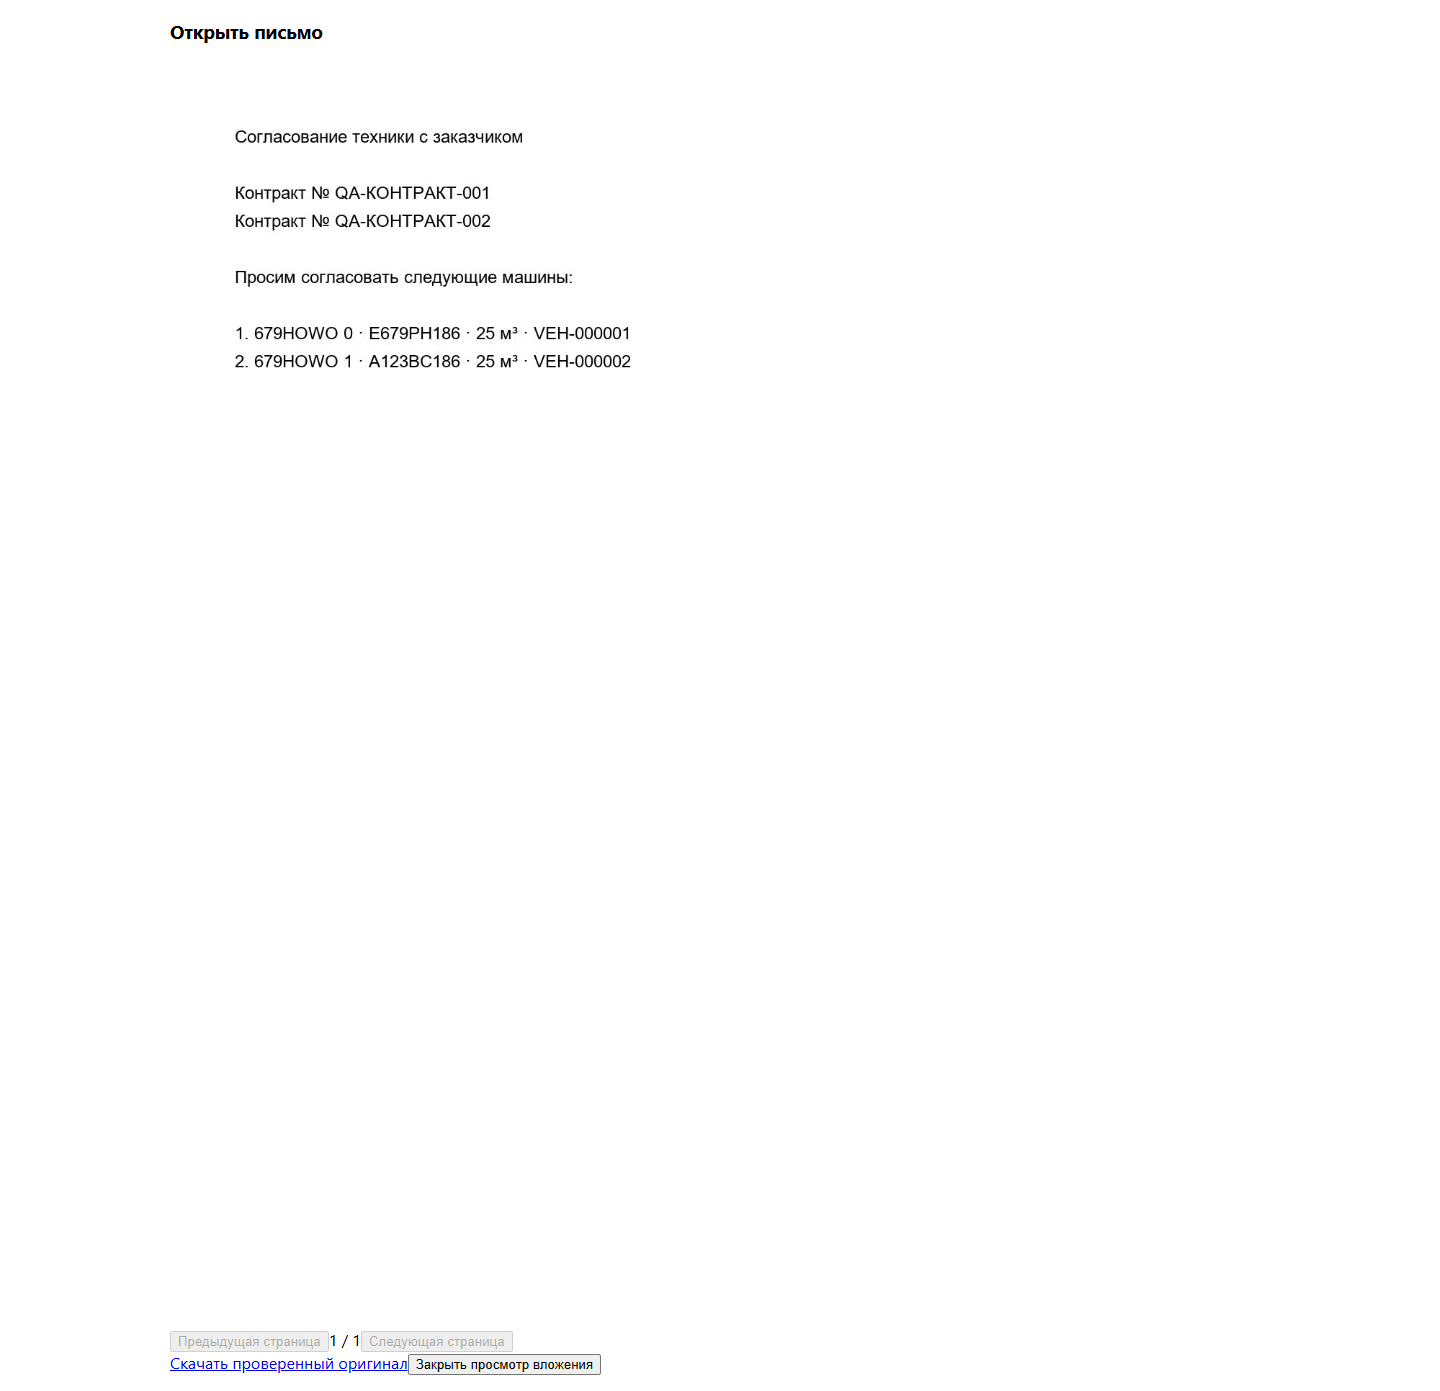
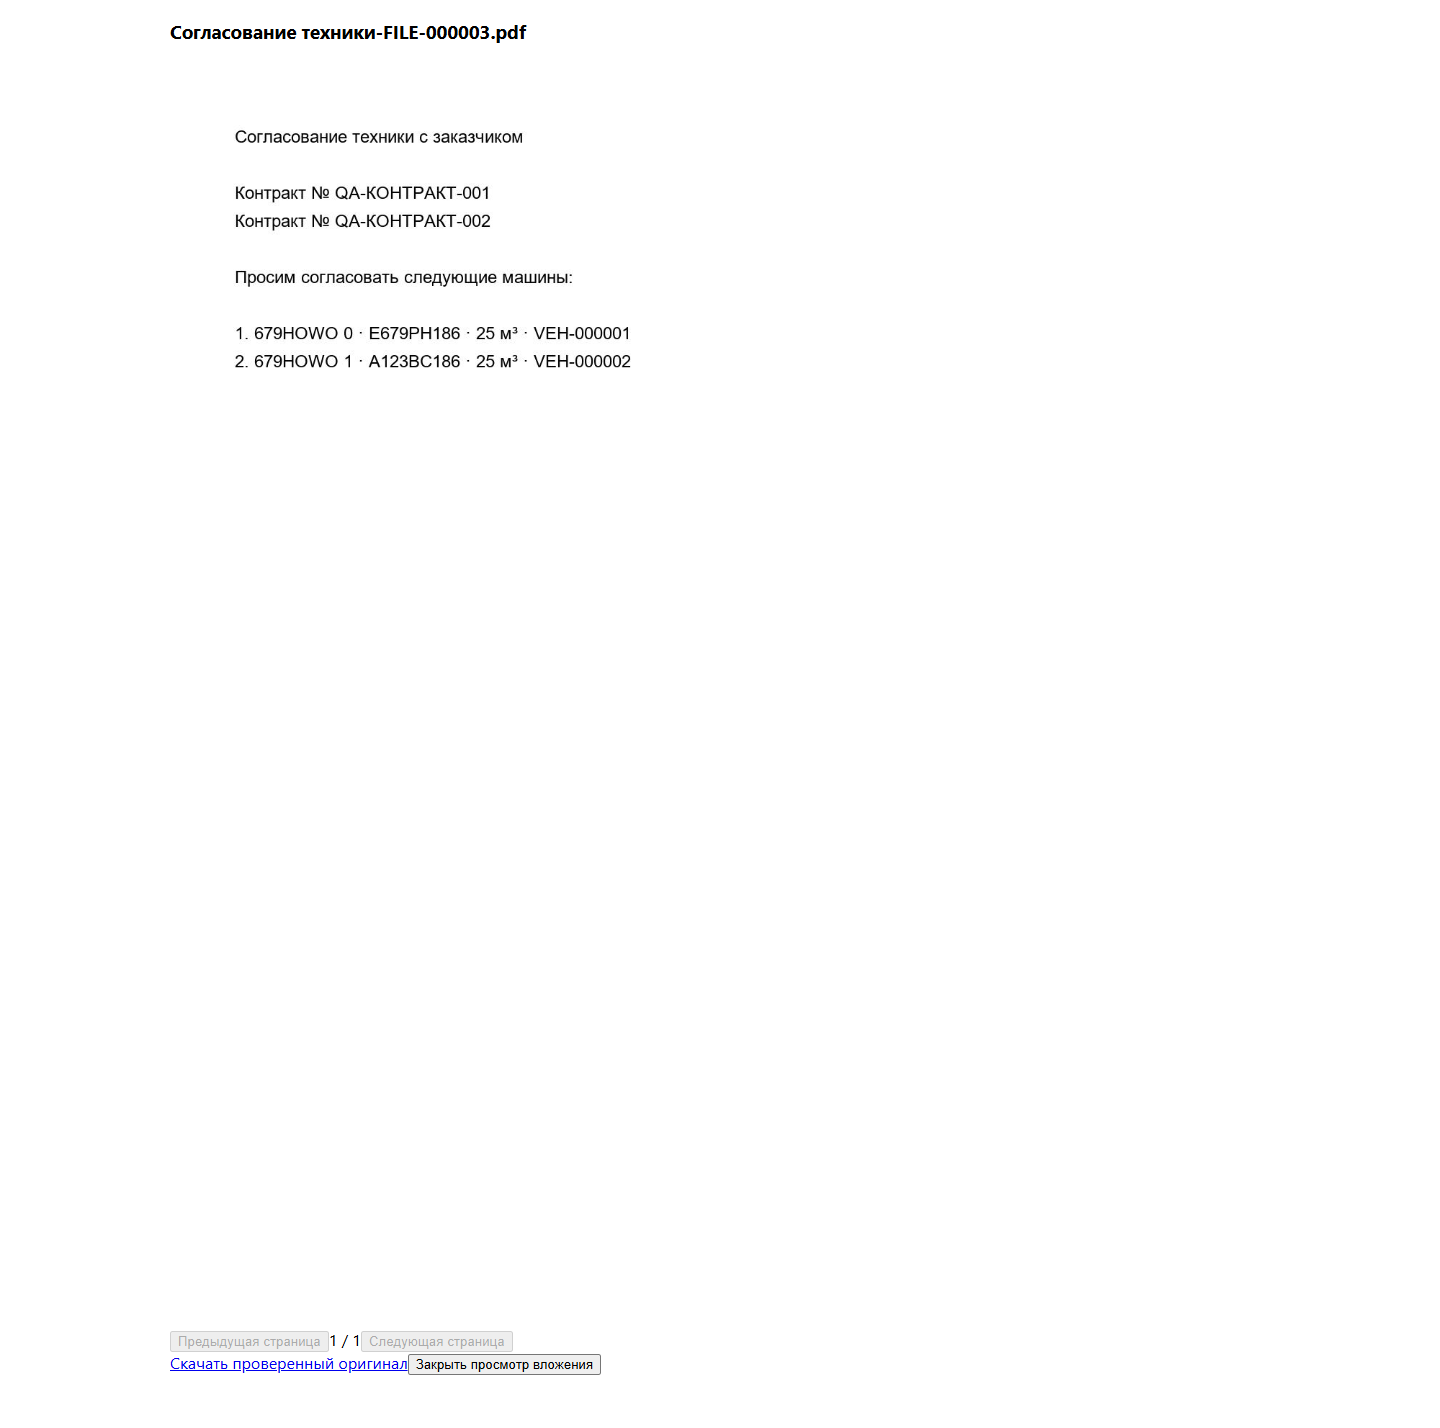
fix(arm2): use platform FILE names for approval previews

Changed region(s): [[0.1562, 0.0927, 0.4375, 0.2782], [0.125, 0.9274, 0.4062, 0.9892], [0.125, 0.0, 0.375, 0.0309]]

diff --git a/frontend/src/arm2/Approvals.test.tsx b/frontend/src/arm2/Approvals.test.tsx
@@ -19,7 +19,7 @@ const ready = {vehicle_id: 'VEH-000001', name: '679HOWO', plate_number: 'Е679Р
   work_readiness_notice: 'Полный допуск к работе не подтверждён'};
 const request = {id: 'APPROVAL-000001', version: 1, contract_number_1: 'К-1', contract_number_2: 'К-2',
   author_id: 1, created_at: '2026-11-22T08:00:00Z', letter_file_id: 'FILE-000002', package_file_id: 'FILE-000003',
-  response_file_ids: [], decisions: [
+  response_file_ids: [], files: [{id: 'FILE-000002', stored_name: 'Письмо-FILE-000002.pdf'}, {id: 'FILE-000003', stored_name: 'Комплект-FILE-000003.zip'}, {id: 'FILE-000004', stored_name: 'Ответ-FILE-000004.png'}], decisions: [
     {id: 'APPROVAL-ITEM-000001', vehicle_id: 'VEH-000001', plate_number: 'Е679РН186', volume_m3: 25, state: 'PENDING', version: 1},
     {id: 'APPROVAL-ITEM-000002', vehicle_id: 'VEH-000002', plate_number: 'А001АА186', volume_m3: 27, state: 'PENDING', version: 1}]};
 beforeEach(() => {
@@ -59,8 +59,10 @@ it('takes eligibility only from the server and sends one letter with two header 
 
 it('saves explicit per-machine decisions with one bounded original and reopens through the platform viewer', async () => {
   let saved = false;
+  const candidate = {navigate: vi.fn(), close: vi.fn()};
+  vi.mocked(openFilePreview).mockReturnValue(candidate);
   vi.mocked(api).mockImplementation(async (path, method) => {
-    if (method === 'PUT') return {stage_id: 'stage'};
+    if (method === 'PUT') return {stage_id: 'stage', stored_name: 'Ответ-FILE-000004.png'};
     if (method === 'POST') {saved = true; return {request_id: request.id};}
     return {...request, version: saved ? 2 : 1, response_file_ids: saved ? ['FILE-000004'] : [],
       decisions: request.decisions.map((row, i) => ({...row, state: saved ? ['APPROVED', 'REJECTED'][i] : 'PENDING'}))};
@@ -69,6 +71,8 @@ it('saves explicit per-machine decisions with one bounded original and reopens t
   const choices = host.querySelectorAll('select'); await change(choices[0], 'APPROVED'); await change(choices[1], 'REJECTED');
   const file = new File(['%PDF-test'], 'Ответ.pdf', {type: 'application/pdf'});
   await act(async () => {const input = host.querySelector<HTMLInputElement>('input[type=file]')!; Object.defineProperty(input, 'files', {value: [file]}); input.dispatchEvent(new Event('change', {bubbles: true})); await tick();});
+  await click('Проверить оригинал ответа');
+  expect(candidate.navigate).toHaveBeenCalledWith(expect.stringMatching(/\/response-stages\/[^/]+\/preview$/), 'Ответ-FILE-000004.png');
   await click('Сохранить ответ и решения');
   const sent = vi.mocked(api).mock.calls.find(call => call[0].endsWith('/response') && call[1] === 'POST')!;
   expect(sent[2]).toMatchObject({expected_version: 1, decisions: [
@@ -76,7 +80,7 @@ it('saves explicit per-machine decisions with one bounded original and reopens t
     {vehicle_id: 'VEH-000002', expected_version: 1, state: 'REJECTED'}]});
   expect(host.textContent).toContain('Согласовано'); expect(host.textContent).toContain('Отклонено');
   await click('Открыть ответ заказчика');
-  expect(openFilePreview).toHaveBeenCalledWith('/arm2/approvals/APPROVAL-000001/files/FILE-000004/preview', 'Открыть ответ заказчика');
+  expect(openFilePreview).toHaveBeenCalledWith('/arm2/approvals/APPROVAL-000001/files/FILE-000004/preview', 'Ответ-FILE-000004.png');
   expect(host.querySelector('iframe')).toBeNull();
 });
 
@@ -85,13 +89,13 @@ it('shows volume as read-only and confirms only after the operator checks an exp
     parent_type: 'VEH' as const, parent_id: ready.vehicle_id, description: null, archive_state: 'Неархивный' as const, display_state: 'Доступен' as const};
   vi.mocked(api).mockImplementation(async (path, method) => {
     if (method === 'POST') return {no_op: false};
-    if (path.includes('/files?')) return {current_revision_id: ready.revision_id, document_version: 2, revisions: [{id: ready.revision_id, files: [{id: 'FILE-000001', original_upload_name: 'Справка.pdf'}]}]};
+    if (path.includes('/files?')) return {current_revision_id: ready.revision_id, document_version: 2, revisions: [{id: ready.revision_id, files: [{id: 'FILE-000001', original_upload_name: 'Справка.pdf', stored_name: 'Тарировка-FILE-000001.pdf'}]}]};
     return ready;
   });
   await mount(<><CalibrationSummary vehicleId={ready.vehicle_id}/><CalibrationConfirmation vehicleId={ready.vehicle_id} document={document} editable blocked={false}/></>);
   expect(host.textContent).toContain('25 м³'); expect(host.textContent).toContain('Полный допуск');
   await click('Открыть Справка.pdf');
-  expect(openFilePreview).toHaveBeenCalledOnce();
+  expect(openFilePreview).toHaveBeenCalledWith('/arm2/veh/VEH-000001/documents/DOCUMENT-000001/revisions/DOCUMENT-REV-000001/files/FILE-000001/preview', 'Тарировка-FILE-000001.pdf');
   const button = [...host.querySelectorAll('button')].find(b => b.textContent === 'Подтвердить тарировку')!;
   expect(button.disabled).toBe(true);
   await change(host.querySelector<HTMLInputElement>('input[type=number]')!, '27');

diff --git a/frontend/src/arm2/Approvals.tsx b/frontend/src/arm2/Approvals.tsx
@@ -2,13 +2,14 @@ import {useEffect, useRef, useState} from 'react';
 import {Link, useNavigate, useParams} from 'react-router-dom';
 import {api, ApiError} from '../api';
 import {apiUrl} from '../workspace';
+import type {DocumentFile} from './api';
 import type {CalibrationState} from './Calibration';
 import {openFilePreview} from './filePreviewWindow';
 import {ErrorMessage, History, Pagination, useAlive, useLoad} from './shared';
 import {useDraftCache, useDraftGuard} from './useDraftGuard';
 
 interface Decision {id: string; vehicle_id: string; plate_number: string; volume_m3: number; state: string; version: number; response_file_id: string | null; decided_at: string | null; decided_by: number | null}
-interface Approval {id: string; version: number; contract_number_1: string; contract_number_2: string; created_at: string; author_id: number; letter_file_id: string; package_file_id: string; response_file_ids: string[]; decisions: Decision[]}
+interface Approval {id: string; version: number; contract_number_1: string; contract_number_2: string; created_at: string; author_id: number; letter_file_id: string; package_file_id: string; response_file_ids: string[]; files: DocumentFile[]; decisions: Decision[]}
 const endpoint = '/arm2/approvals';
 const stateName = (value: string) => ({PENDING: 'Ожидает ответа', APPROVED: 'Согласовано', REJECTED: 'Отклонено'}[value] ?? value);
 export default function Approvals({editable}: {editable: boolean}) {
@@ -71,8 +72,8 @@ function ApprovalCard({row, editable, reload}: {row: Approval; editable: boolean
     let preview: ReturnType<typeof openFilePreview> | undefined;
     try {
       preview = openFilePreview();
-      await api(path + '/response-stages/' + draft.stageId + '?name=' + encodeURIComponent(draft.file.name), 'PUT', draft.file);
-      preview.navigate(path + '/response-stages/' + draft.stageId + '/preview', draft.file.name);
+      const staged = await api<{stored_name: string}>(path + '/response-stages/' + draft.stageId + '?name=' + encodeURIComponent(draft.file.name), 'PUT', draft.file);
+      preview.navigate(path + '/response-stages/' + draft.stageId + '/preview', staged.stored_name);
     } catch (error) {preview?.close(); if (alive.current) setError(error);}
     finally {inFlight.current = false; if (alive.current) setBusy(false);}
   };
@@ -88,7 +89,7 @@ function ApprovalCard({row, editable, reload}: {row: Approval; editable: boolean
     } catch (error) {if (alive.current) setError(error);}
     finally {inFlight.current = false; if (alive.current) setBusy(false);}
   };
-  const file = (id: string, label: string, preview = true) => <span className="arm2-actions" key={id}>{preview && <button type="button" onClick={() => openFilePreview(`${path}/files/${id}/preview`, label)}>{label}</button>}<a href={apiUrl(`${path}/files/${id}/download`)} download>{preview ? 'Скачать оригинал' : label}</a></span>;
+  const file = (id: string, label: string, preview = true) => <span className="arm2-actions" key={id}>{preview && <button type="button" onClick={() => openFilePreview(`${path}/files/${id}/preview`, row.files.find(file => file.id === id)!.stored_name)}>{label}</button>}<a href={apiUrl(`${path}/files/${id}/download`)} download>{preview ? 'Скачать оригинал' : label}</a></span>;
   return <section><h2>{row.id}</h2><p>Контракты: {row.contract_number_1} / {row.contract_number_2} · Автор {row.author_id} · {new Date(row.created_at).toLocaleString('ru-RU')} · Версия {row.version}</p>
     <div className="arm2-actions">{file(row.letter_file_id, 'Открыть письмо')}{file(row.package_file_id, 'Скачать ZIP со справками', false)}</div>
     <ErrorMessage error={error}/><fieldset disabled={!editable || busy}><table><thead><tr><th>Машина / госномер</th><th>Объём</th><th>Текущее решение</th><th>Принять из ответа</th></tr></thead><tbody>{row.decisions.map(d => <tr key={d.id}><td><Link to={'/arm2/veh/' + d.vehicle_id}>{d.vehicle_id} · {d.plate_number}</Link></td><td>{d.volume_m3} м³</td><td>{stateName(d.state)}{d.decided_at && <small> · {new Date(d.decided_at).toLocaleString('ru-RU')} · Автор {d.decided_by}</small>}</td><td><select aria-label={'Решение ' + d.plate_number} value={draft.choices[d.vehicle_id] ?? ''} onChange={e => {const choices = {...draft.choices}; if (e.target.value) choices[d.vehicle_id] = e.target.value; else delete choices[d.vehicle_id]; setDraft({...draft, choices, key: crypto.randomUUID()});}}><option value="">Не изменять</option><option value="APPROVED">Согласовано</option><option value="REJECTED">Отклонено</option></select></td></tr>)}</tbody></table>

diff --git a/frontend/src/arm2/Calibration.tsx b/frontend/src/arm2/Calibration.tsx
@@ -53,7 +53,7 @@ export function CalibrationConfirmation({vehicleId, document, editable, blocked}
   };
   return <section aria-label="Подтверждение объёма"><h3>Подтвердить объём по оригиналу</h3><ErrorMessage error={state.error} retry={state.reload}/><ErrorMessage error={error}/>
     <p>Проверьте оригинал, госномер и объём. Новая редакция сама по себе не подтверждает объём и не меняет решение заказчика.</p>
-    <div className="arm2-actions">{current?.files.map(file => <button type="button" key={file.id} onClick={() => openFilePreview(`${path}/revisions/${current.id}/files/${file.id}/preview`, file.original_upload_name)}>Открыть {file.original_upload_name}</button>)}</div>
+    <div className="arm2-actions">{current?.files.map(file => <button type="button" key={file.id} onClick={() => openFilePreview(`${path}/revisions/${current.id}/files/${file.id}/preview`, file.stored_name)}>Открыть {file.original_upload_name}</button>)}</div>
     {state.data && <p>Госномер: {state.data.ready.plate_number} · Подтверждённый объём: {state.data.ready.volume_m3 ?? '—'} м³</p>}
     <fieldset disabled={!editable || blocked || busy || !current?.files.length}><div className="arm2-actions"><label>Объём кузова, м³<input type="number" min="0" step="any" value={volume} onChange={e => change(e.target.value)}/></label><label><input type="checkbox" checked={checked} onChange={e => {setChecked(e.target.checked); setKey(crypto.randomUUID());}}/>Сверил оригинал и госномер</label><button type="button" disabled={!checked || !volume} onClick={() => void submit()}>{busy ? 'Подтверждаем…' : 'Подтвердить тарировку'}</button><button type="button" onClick={() => {guard.current = false; parked.delete(path); setVolume(''); setChecked(false); setError(undefined);}}>Отмена</button></div></fieldset>
     {message && <p role="status">{message}</p>}

diff --git a/backend/app/arm2/approval_store.py b/backend/app/arm2/approval_store.py
@@ -343,13 +343,25 @@ def confirm_calibration(db, user, session_hash, vehicle_id, command):
 
 
 def describe(db, user, request_id):
+    from app.arm2.document_file_store import public_file
+
     row = access(db, user, request_id)
     decisions = db.scalars(
         select(ApprovalDecision).where(ApprovalDecision.request_id == row.id).order_by(ApprovalDecision.id)
     ).all()
+    file_ids = [row.letter_file_id, row.package_file_id, *row.response_file_ids]
+    originals = {
+        original.id: original
+        for original in db.scalars(
+            select(DocumentFile).where(DocumentFile.process_id == row.id, DocumentFile.id.in_(file_ids))
+        )
+    }
+    if set(file_ids) != set(originals):
+        raise files.StorageUnavailable("Метаданные оригиналов заявки неполны")
     return {
         **{key: getattr(row, key) for key in OBJECT_REGISTRY.require("APPROVAL").history_fields},
         "id": row.id,
+        "files": [public_file(originals[file_id], index) for index, file_id in enumerate(file_ids)],
         "decisions": [
             {
                 **{key: getattr(d, key) for key in OBJECT_REGISTRY.require("APPROVAL-ITEM").history_fields},
@@ -544,7 +556,12 @@ def stage_response(db, user, session_hash, request_id, key, name, data):
         old, digest = attempt(db, user, key, "response-stage", request_id, payload)
         if old:
             response_stage(db, user, session_hash, request_id, key)
-            return {"stage_id": key, "name": name, "media_type": old.plan["file"]["media_type"]}
+            return {
+                "stage_id": key,
+                "name": name,
+                "media_type": old.plan["file"]["media_type"],
+                "stored_name": old.plan["file"]["stored_name"],
+            }
         staging_quota(db, user.id, len(data))
         local = files.fresh_path()
         try:
@@ -572,7 +589,7 @@ def stage_response(db, user, session_hash, request_id, key, name, data):
             db.commit()
         finally:
             local.unlink(missing_ok=True)
-        return {"stage_id": key, "name": name, "media_type": media}
+        return {"stage_id": key, "name": name, "media_type": media, "stored_name": plan["stored_name"]}
 
 
 def response_stage(db, user, session_hash, request_id, stage_id):

diff --git a/backend/tests/test_arm2_calibration_approval.py b/backend/tests/test_arm2_calibration_approval.py
@@ -93,6 +93,8 @@ def test_one_letter_two_numbers_response_roundtrip_and_idempotency(qa):
     request_id = result["request_id"]
     assert ok(c.post("/api/arm2/approvals/letter", json=body), 201) == result
     request = ok(c.get("/api/arm2/approvals/" + request_id))
+    assert {file['id'] for file in request['files']} == {request['letter_file_id'], request['package_file_id']}
+    assert all(not {'storage_ref', 'token', 'process_id'} & set(file) for file in request['files'])
     assert [request["contract_number_1"], request["contract_number_2"]] == ["К-001", "К-002"]
     assert len(request["decisions"]) == 2
     assert all(d["state"] == "PENDING" for d in request["decisions"])
@@ -108,6 +110,7 @@ def test_one_letter_two_numbers_response_roundtrip_and_idempotency(qa):
     endpoint = f"/api/arm2/approvals/{request_id}"
     uploaded = ok(c.put(endpoint + f"/response-stages/{stage_id}?name=response.png", content=response_file))
     assert uploaded["stage_id"] == stage_id
+    assert uploaded['stored_name'].endswith('.png') and '-FILE-' in uploaded['stored_name']
     preview = c.get(endpoint + f"/response-stages/{stage_id}/preview")
     assert preview.content == response_file
     command = {

diff --git a/docs/ARM2_CAL_APPROVAL_ISSUE85.md b/docs/ARM2_CAL_APPROVAL_ISSUE85.md
@@ -39,7 +39,7 @@ Ubuntu deploy, merge и очистка стенда не выполнялись 
 | Серверные поля в общем SAVE | Отдельный явный `server_fields/server_values` контракт, не обычные входные поля | Общее ядро по-прежнему проверяет principal, context, версии, связи и историю |
 | Общий FILE/STORAGE | Те же `DocumentFile`, глобальные FILE-ID, private runtime, SHA, provider, safe_name и protected_response | Оригиналы открываются/скачиваются после reload и SQL+FILE/runtime restore |
 | ZIP только исходящий | `generated_bundle=true` допустим только для серверного process FILE; обычный документный маршрут не изменяет content policy | Вложенный ZIP и неподдерживаемый ответ отклоняются; прежние B3-потребители регрессированы |
-| Никакого нового именователя / D #83 | Существующий preset DOCUMENT_NAME и `safe_name`; FILE-ID в имени | DOC-KIND `file_naming_fields`/новые шаблоны не вводились |
+| Никакого нового именователя / D #83 | Существующий preset DOCUMENT_NAME и `safe_name`; FILE-ID в имени; публичные метаданные через общий B3 `public_file` | Просмотрщик получает `stored_name`, а не текст кнопки; имя и расширение сохраняются при Blob-скачивании. DOC-KIND `file_naming_fields`/новые шаблоны не вводились |
 | Общий preview | Узкая allowlist новых protected endpoints; прежние FilePreviewPage/FilePreview | Браузерный smoke: отдельная вкладка, реальный PDF canvas и PNG ответа, без iframe и второго renderer |
 | Ограничение HTTP | Общий `bounded_route`: сырой ответ максимум 2 МиБ; PDF/JPG/PNG | Адресный 413; нет base64/multipart overhead и новых nginx-исключений; B5 32m сохранён |
 | Общие квоты runtime | `staging_quota` для ручного B3 и процесса; 64 кандидата, прежний общий byte budget | Сохраняется 413; истёкшие временные копии удаляются только из private runtime, ledger/remote originals не удаляются |
